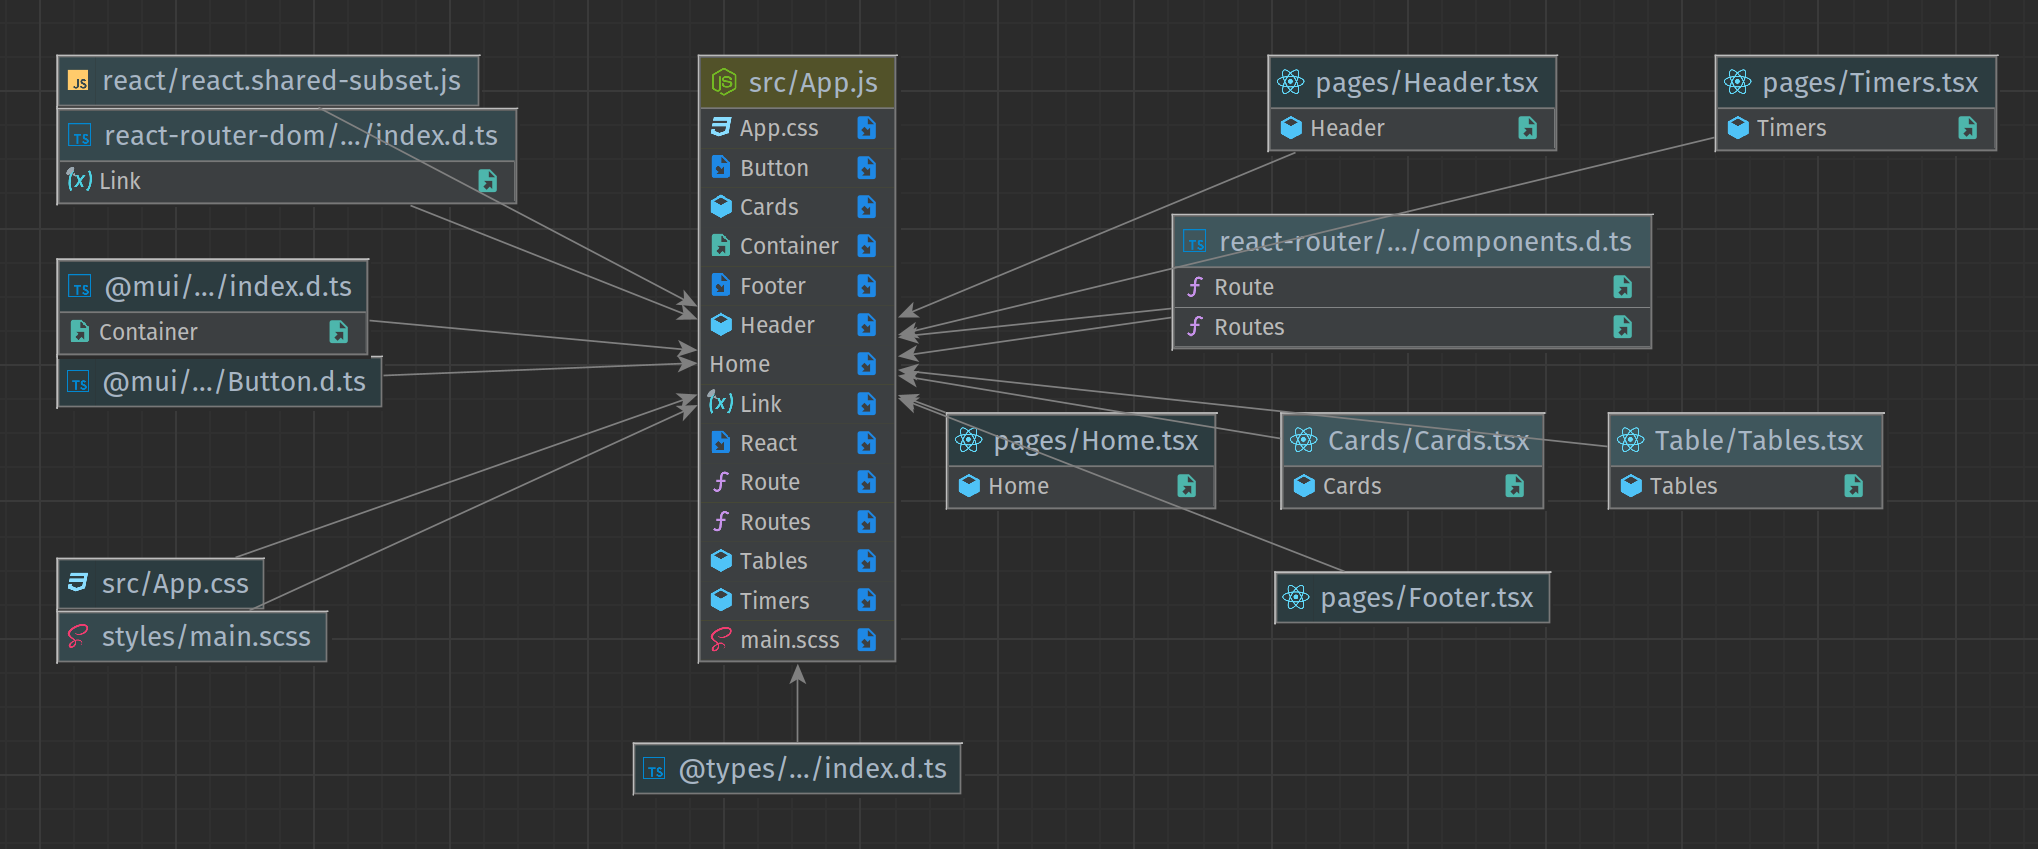
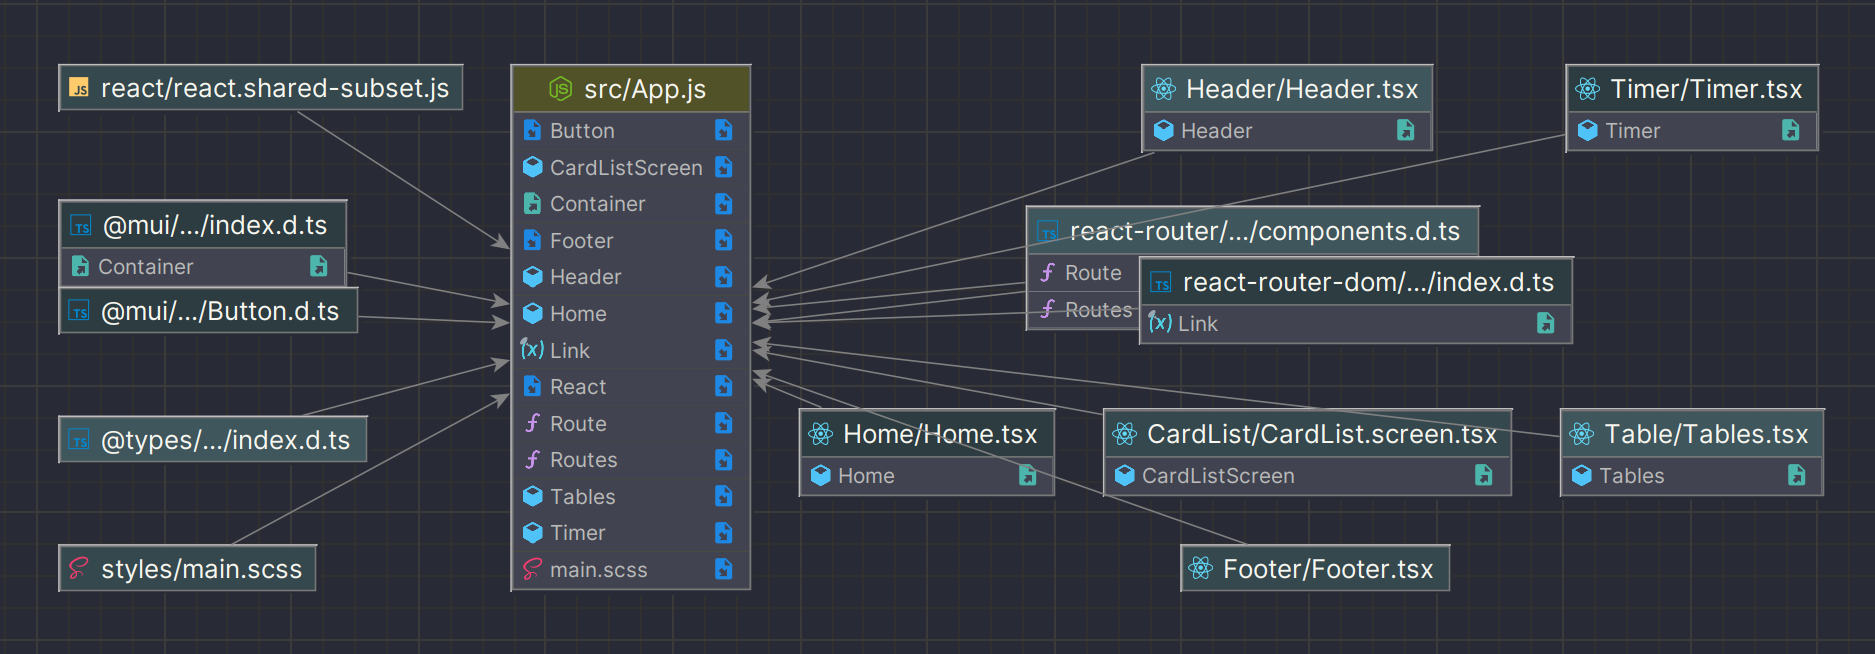
refactoring: fix tables

diff --git a/src/view/screen/Table/components/Tables.component.tsx b/src/view/screen/Table/components/Tables.component.tsx
@@ -1,0 +1,115 @@
+import * as React from 'react';
+import Table from '@mui/material/Table';
+import TableBody from '@mui/material/TableBody';
+import TableCell from '@mui/material/TableCell';
+import TableContainer from '@mui/material/TableContainer';
+import TableHead from '@mui/material/TableHead';
+import TableRow from '@mui/material/TableRow';
+import Paper from '@mui/material/Paper';
+import {observer} from "mobx-react";
+import {STORE_COINS} from "_store/StoreCoins";
+import {Modal} from "_view/components/Modal/Modal";
+import {Toggle} from "_common/utils/Toggle";
+import {ResponseData} from "_common/type/Type";
+import {observable} from "mobx";
+import {CardFull} from "_view/screen/CardList/components/CardFull.component";
+
+@observer
+export class TablesComponent extends React.Component {
+  @observable private initPrice?: number;
+  @observable private _data: any = STORE_COINS.CoinsList;
+  @observable private _currentCard: ResponseData;
+  private toggle = new Toggle(false)
+
+  componentDidMount() {
+    // Либо инициализируем цену и не меняем, либо меняем в getColor, тогда инициализировать не нужно
+    // this.initPrice = this.props.RAW.USD.PRICE
+  }
+  modalOpen (row: any) {
+    this._currentCard = row;
+    this.toggle.open();
+    console.log('row', row);
+  }
+
+  render() {
+    // const {CoinInfo, DISPLAY, RAW} = this._data;
+    const {toggle} = this;
+
+    return (
+      <>
+        <TableContainer component={Paper}>
+          <Table sx={{minWidth: 650}} aria-label="simple table">
+            <TableHead>
+              <TableRow>
+                <TableCell align="right">№</TableCell>
+                <TableCell>Crypto</TableCell>
+                <TableCell align="right">ID</TableCell>
+                <TableCell align="right">Img</TableCell>
+                <TableCell align="right">PRICE</TableCell>
+                <TableCell align="right">SYMBOL</TableCell>
+                <TableCell align="right">HashPerSec</TableCell>
+                <TableCell align="right">FullName&nbsp;()</TableCell>
+                <TableCell align="right">MKTCAP</TableCell>
+                <TableCell align="right">TotalVol24</TableCell>
+              </TableRow>
+            </TableHead>
+            <TableBody>
+              {/*{rows.map((row) => (*/}
+              {this._data?.map( (row, index) => {
+                const id = row.CoinInfo.Id;
+                const image = `https://www.cryptocompare.com/${row.CoinInfo?.ImageUrl}` ;
+                const props = row.RAW.USD.PRICE;
+                // const color = this.getColor(props);
+                return (
+                <TableRow
+                  key={id}
+                  sx={{'&:last-child td, &:last-child th': {border: 0},
+                      backgroundColor: this.getColor(props)
+                     }}
+                  onClick={() => this.modalOpen(row)}
+                  // onClick={()=>this.props.onClick(row.CoinInfo.Id)}
+                >
+                  <TableCell align="right">{index+1}</TableCell>
+                  <TableCell component="th" scope="row">{row.CoinInfo.Name}</TableCell>
+                  <TableCell align="right">{row.CoinInfo.Id}</TableCell>
+                  <TableCell align="right">
+                    <picture>
+                      <source srcSet={image}
+                              width = '30px' height ='30px'
+                      />
+                      <img src={image} alt="img"/>
+                    </picture>
+                  </TableCell>
+                  <TableCell align="right">{row.RAW.USD.PRICE}</TableCell>
+                  <TableCell align="right">{row.DISPLAY.USD.FROMSYMBOL}</TableCell>
+                  <TableCell align="right">{row.CoinInfo.NetHashesPerSecond}</TableCell>
+                  <TableCell align="right">{row.CoinInfo.FullName}</TableCell>
+                  <TableCell align="right">{row.DISPLAY.USD.MKTCAP}</TableCell>
+                  <TableCell align="right">{row.DISPLAY.USD.TOTALVOLUME24HTO}</TableCell>
+                </TableRow>
+              )})}
+            </TableBody>
+          </Table>
+        </TableContainer>
+        <Modal title={'modalTitle'} isOpen={toggle.isOpen} onClosed={toggle.close}>
+          <CardFull {...this._currentCard} />
+      </Modal>
+      </>
+    );
+  }
+  private getColor(props) { //get
+    const price = props; //this._data.RAW.USD.PRICE
+    let color: string
+
+    if (!this.initPrice) {
+      color = 'white'
+    } else if (this.initPrice && price > this.initPrice) {
+      color = 'green'
+    } else if (this.initPrice && price < this.initPrice) {
+      color = 'red'
+    }
+
+    this.initPrice = price;
+    return color
+  }
+}

diff --git a/src/view/screen/Table/TablesList.screen.tsx b/src/view/screen/Table/TablesList.screen.tsx
@@ -1,0 +1,59 @@
+import React from "react"; //, {Component}
+import {observer} from "mobx-react";
+import {STORE_TIMER} from "_store/StoreTimer";
+import {doFetchData} from "_common/utils/Fetch";
+import {URL_COINS} from "_common/const/Const";
+import Search from "_view/components/Search/Search";
+import {LoaderSpinner} from "_view/components/LoaderSpiner/LoaderSpiner";
+import {TablesComponent} from "_view/screen/Table/components/Tables.component";
+import {Toggle} from "_common/utils/Toggle";
+import {STORE_COINS} from "_store/StoreCoins";
+
+@observer
+export class TablesListScreen extends React.Component<any, any> { //propsDataCryptaFromPostData
+  private _isBusy = new Toggle(false)
+  private _init = true;
+  // dataData: any[];
+  // state = {
+  //   isLoading: true, //  storeCoins.IsLoading: boolean = true
+  // }
+
+  componentDidMount() {
+    // STORE_TIMER.setTimerFunction(this.startTimer);
+    this.startTimer();
+  }
+
+  startTimer = () => {
+    STORE_TIMER.start();
+    this.loadData().then(() => {
+      this.setState({isLoading: false});
+    });
+  }
+
+  public async loadData() {
+    this._isBusy.open()
+    try {
+      const data = await doFetchData(URL_COINS);
+      STORE_COINS.setData(data);
+    } finally {
+      this._isBusy.close()
+      this._init = false;
+    }
+    // this.dataData = await doFetchData(URL_COINS);
+  }
+
+  public render() {
+    return (
+      <div className="table">
+        <h3>Tables</h3>
+        <button onClick={() => this.startTimer()}>[ LOAD ]</button>
+        <Search/>
+        {
+          this._isBusy.isOpen && this._init
+            ? <LoaderSpinner/>
+            : <TablesComponent />
+        }
+      </div>
+    )
+  }
+}

diff --git a/src/App.js b/src/App.js
@@ -5,29 +5,30 @@ import './assets/styles/main.scss'
 import {Container} from "@mui/material";
 import {CardListScreen} from "_view/screen/CardList/CardList.screen";
 import {Home} from "_view/screen/Home/Home";
-import {Tables} from "_view/screen/Table/Tables";
+import {TablesListScreen} from "_view/screen/Table/TablesList.screen";
 import {Header} from "_view/components/Header/Header";
 import Footer from "../src/view/components/Footer/Footer";
+import {Timer} from "_view/components/Timer/Timer";
 
 function App() {
   return (
     <div className="App">
       <Header/>
       <Container sx={{mt: '1rem'}} maxWidth={false}>
-        <header className="App-header">
+        <header className="App-Header">
           <h1>In God We Trust</h1>
-          <div className="poke">
+          <div className="App-Route">
             <Link id="one" to="/Home">Home</Link>
             <Link id="one" to="/">Cards</Link>
             <Link id="one" to="/Tables">Tables</Link>
           </div>
         </header>
-        <div className="App-top">
+        <div className="App-Main">
           <br/>
           <Routes>
             <Route path="/Home" element={<Home/>}/>
             <Route path="/" element={<CardListScreen/>}/>
-            <Route path="/Tables" element={<Tables/>}/>
+            <Route path="/Tables" element={<TablesListScreen/>}/>
           </Routes>
           <Button variant="contained" href="/">go home</Button>
         </div>

diff --git a/src/view/screen/Home/components/HomePresentation.tsx b/src/view/screen/Home/components/HomePresentation.tsx
@@ -35,9 +35,9 @@ export class HomePresentation extends React.Component {
           <div className="HomePresentation">
             <ImageList
               sx={{
-                width: 1100,
-                height: 460,
-                transform: 'translateZ(0)',
+                // width: 1250,
+                height: 470,
+                transform: 'translateZ(0)'
               }}
               rowHeight={235}
               gap={1}
@@ -52,12 +52,13 @@ export class HomePresentation extends React.Component {
                       {...this._setSrc(item.img, 300, 250, rows, cols)}
                       alt={item.title}
                       loading="lazy"
+                      style={{background: 'cover'}}
                     />
                     <ImageListItemBar
                       sx={{
                         background:
                           'linear-gradient(to bottom, rgba(0,0,0,0.7) 0%, ' +
-                          'rgba(0,0,0,0.3) 70%, rgba(0,0,0,0) 100%)',
+                          'rgba(0,0,0,0.3) 70%, rgba(0,0,0,0) 100%)'
                       }}
                       title={item.title}
                       position="top"

diff --git a/public/index.css b/public/index.css
@@ -64,17 +64,17 @@ body {
   /*padding: 20px;*/
 }
 
-.poke a {
+.App-Route a {
   margin: auto 10px;
 
   /*padding: 10px;*/
 }
 
-.poke a:visited {
+.App-Route a:visited {
   color: white;
 }
 
-.App-header {
+.App-Header {
   background-color: darkslateblue;
   /*min-height: 100vh;*/
   /*padding-top: -20px;*/

diff --git a/webpack.config.js b/webpack.config.js
@@ -25,7 +25,7 @@ module.exports = {
   plugins: [
     new HtmlWebpackPlugin({
       inject: true,
-      title: 'SER',
+      title: 'MuSa_App',
       template: path.resolve(__dirname, './public/index.html'), // шаблон
     }),
   ],

diff --git a/src/common/type/Type.ts b/src/common/type/Type.ts
@@ -37,6 +37,8 @@ interface DISPLAY {
   USD: {
     PRICE: string;
     FROMSYMBOL: string,
+    MKTCAP: string,
+    TOTALVOLUME24HTO: string,
   }
 }
 
